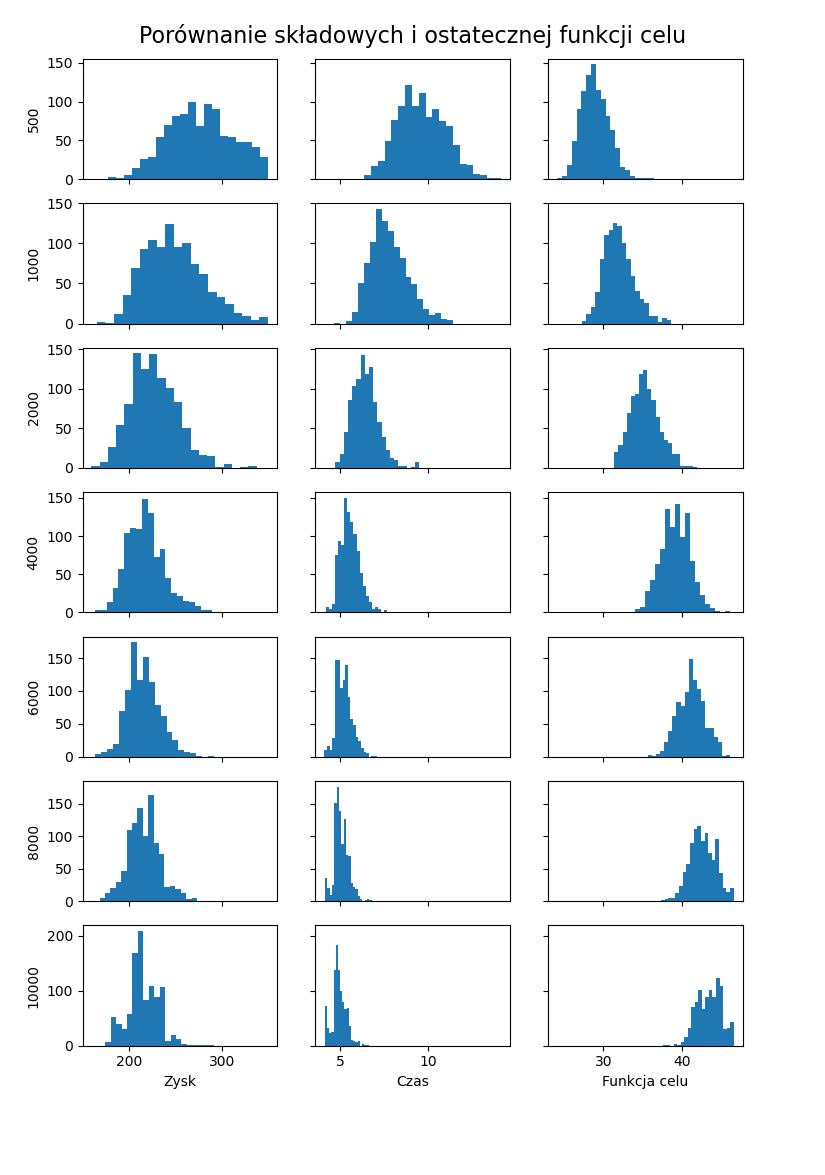
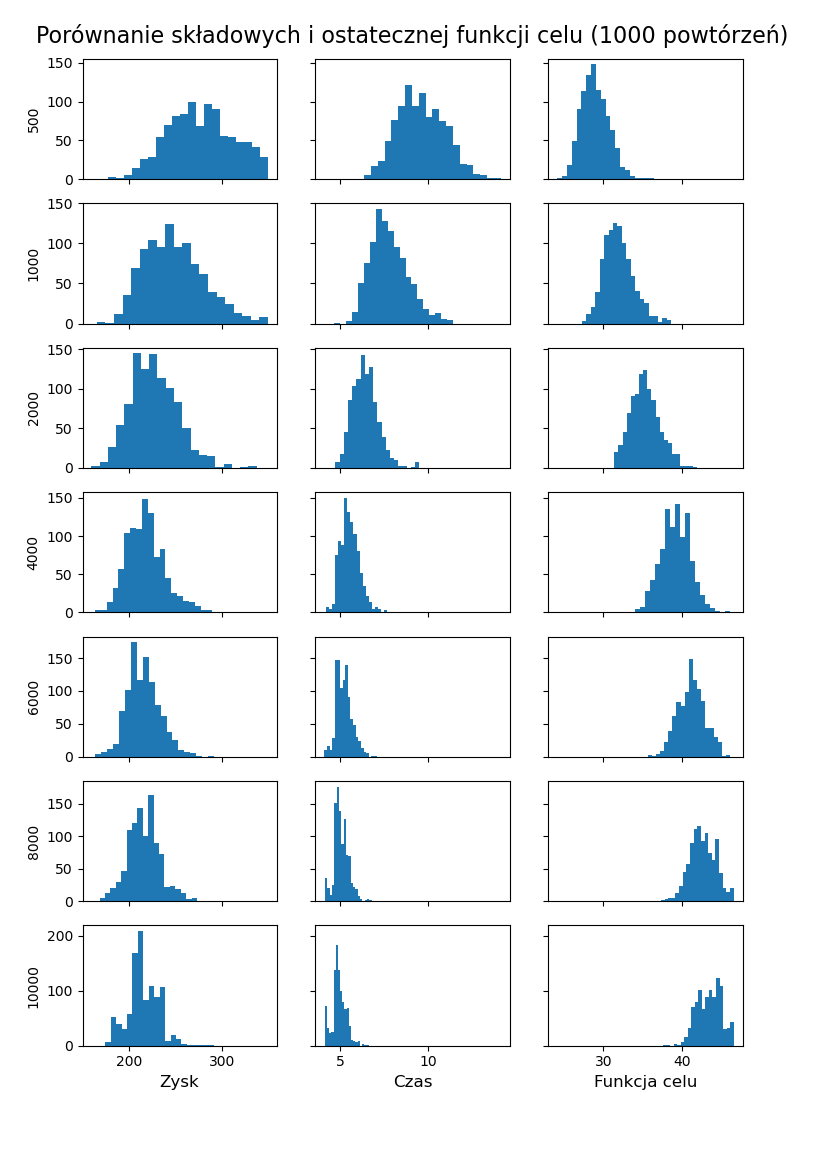
05 stycznia

diff --git a/data_analysis.py b/data_analysis.py
@@ -4,18 +4,17 @@
 import matplotlib.pyplot as plt
 import pandas as pd
 
-df500 = pd.read_excel("Dat/RawData_iter_500.xlsx", index_col=0)
-df1000 = pd.read_excel("Dat/RawData_iter_1000.xlsx", index_col=0)
-df2000 = pd.read_excel("Dat/RawData_iter_2000.xlsx", index_col=0)
-df4000 = pd.read_excel("Dat/RawData_iter_4000.xlsx", index_col=0)
-df6000 = pd.read_excel("Dat/RawData_iter_6000.xlsx", index_col=0)
-df8000 = pd.read_excel("Dat/RawData_iter_8000.xlsx", index_col=0)
-df10000 = pd.read_excel("Dat/RawData_iter_10000.xlsx", index_col=0)
-
 
 def better_first_chart():
+    df500 = pd.read_excel("Dat/RawData_iter_500.xlsx", index_col=0)
+    df1000 = pd.read_excel("Dat/RawData_iter_1000.xlsx", index_col=0)
+    df2000 = pd.read_excel("Dat/RawData_iter_2000.xlsx", index_col=0)
+    df4000 = pd.read_excel("Dat/RawData_iter_4000.xlsx", index_col=0)
+    df6000 = pd.read_excel("Dat/RawData_iter_6000.xlsx", index_col=0)
+    df8000 = pd.read_excel("Dat/RawData_iter_8000.xlsx", index_col=0)
+    df10000 = pd.read_excel("Dat/RawData_iter_10000.xlsx", index_col=0)
     fig1, axs = plt.subplots(7, 3, figsize=(8.25, 11.75), sharey="row", sharex="col")
-    fig1.suptitle("Porównanie składowych i ostatecznej funkcji celu", fontsize=16)
+    fig1.suptitle("Porównanie składowych i ostatecznej funkcji celu (1000 powtórzeń)", fontsize=16)
     fig1.subplots_adjust(top=0.95, left=0.1)
     szerokosc_paskow = 1
     axs[0, 0].hist(df500['Maximum income'], bins=20, rwidth=szerokosc_paskow)
@@ -32,7 +31,7 @@ def better_first_chart():
     axs[5, 0].set_ylabel("8000")
     axs[6, 0].hist(df10000['Maximum income'], bins=20, rwidth=szerokosc_paskow)
     axs[6, 0].set_ylabel("10000")
-    axs[6, 0].set_xlabel("Zysk")
+    axs[6, 0].set_xlabel("Zysk", fontsize=12)
 
     axs[0, 1].hist(df500['Suboptimal teaching time'], bins=20, rwidth=szerokosc_paskow)
     axs[1, 1].hist(df1000['Suboptimal teaching time'], bins=20, rwidth=szerokosc_paskow)
@@ -41,7 +40,7 @@ def better_first_chart():
     axs[4, 1].hist(df6000['Suboptimal teaching time'], bins=20, rwidth=szerokosc_paskow)
     axs[5, 1].hist(df8000['Suboptimal teaching time'], bins=20, rwidth=szerokosc_paskow)
     axs[6, 1].hist(df10000['Suboptimal teaching time'], bins=20, rwidth=szerokosc_paskow)
-    axs[6, 1].set_xlabel("Czas")
+    axs[6, 1].set_xlabel("Czas", fontsize=12)
 
     axs[0, 2].hist(df500['Final maximum'], bins=20, rwidth=szerokosc_paskow)
     axs[1, 2].hist(df1000['Final maximum'], bins=20, rwidth=szerokosc_paskow)
@@ -50,44 +49,29 @@ def better_first_chart():
     axs[4, 2].hist(df6000['Final maximum'], bins=20, rwidth=szerokosc_paskow)
     axs[5, 2].hist(df8000['Final maximum'], bins=20, rwidth=szerokosc_paskow)
     axs[6, 2].hist(df10000['Final maximum'], bins=20, rwidth=szerokosc_paskow)
-    axs[6, 2].set_xlabel("Funkcja celu")
+    axs[6, 2].set_xlabel("Funkcja celu", fontsize=12)
 
     plt.savefig("Plots & Charts/objective functions comparison.png")
     plt.show()
     return fig1
 
 
-a = better_first_chart()
+def second_test():
+    data4000 = pd.read_excel("Dat/RawData_oneiter_4000.xlsx", index_col=0)
+    data10000 = pd.read_excel("Dat/RawData_oneiter_10000.xlsx", index_col=0)
+    fig, axs = plt.subplots(1, 2, figsize=(10, 6), sharey='row')
+    fig.suptitle("Zachowanie granicznych i średniego rozwiązania", fontsize=16)
 
-"""
-fig, axs = plt.subplots(2, 2, figsize=(10, 8), sharey="row", sharex="row")
-fig.suptitle("Całkowity zysk przy różnych liczbach iteracji algorytmu 500-4000", fontsize=16)
-fig.subplots_adjust(top=0.90, left=0.1)
-axs[0, 0].hist(df500['Maximum income'], bins=20, rwidth=0.9)
-axs[0, 0].set_title("500")
-axs[0, 0].set_ylabel("")
-axs[0, 1].hist(df1000['Maximum income'], bins=20, rwidth=0.9)
-axs[0, 1].set_title("1000")
-axs[1, 0].hist(df2000['Maximum income'], bins=20, rwidth=0.9)
-axs[1, 0].set_title("2000")
-axs[1, 0].set_xlabel("Zysk")
-axs[1, 1].hist(df4000['Maximum income'], bins=20, rwidth=0.9)
-axs[1, 1].set_title("4000")
-axs[1, 1].set_xlabel("Zysk")
-axs[-1, 0].set_xlabel('.', color=(0, 0, 0, 0))
-axs[-1, 0].set_ylabel('.', color=(0, 0, 0, 0))
-# Make common axis labels
-fig.text(0.5, 0.04, 'Zysk', va='center', ha='center')
-fig.text(0.04, 0.5, 'Wystąpienia zysku na 1000 powtórzeń', va='center', ha='center', rotation='vertical')
-
-plt.savefig("Plots & Charts/maximum income comparison.png")
-plt.show()
-"""
-
-"""
-fig.add_subplot(111, frameon=False)
-# hide tick and tick label of the big axis
-plt.tick_params(labelcolor='none', top=False, bottom=False, left=False, right=False)
-plt.ylabel("Wystąpienia zysku na 1000 powtórzeń")
-plt.subplots_adjust(left=0.08)
-"""
+    axs[0].plot(data4000["Minimum Fun"], color="red", label="Minimum")
+    axs[0].plot(data4000["Average Fun"], color="blue", label="Średnia")
+    axs[0].plot(data4000["Maximum Fun"], color='green', label="Maksimum")
+    axs[0].set_ylabel("Funkcja celu", fontsize=12)
+    axs[0].set_xlabel("Iteracja", fontsize=12)
+    axs[1].plot(data10000["Minimum Fun"], color="red", label="Minimum")
+    axs[1].plot(data10000["Average Fun"], color="blue", label="Średnia")
+    axs[1].plot(data10000["Maximum Fun"], color='green', label="Maksimum")
+    axs[1].set_xlabel("Iteracja", fontsize=12)
+    plt.legend(fontsize=16)
+    plt.savefig("Plots & Charts/max average min.png")
+    plt.show()
+    return fig
